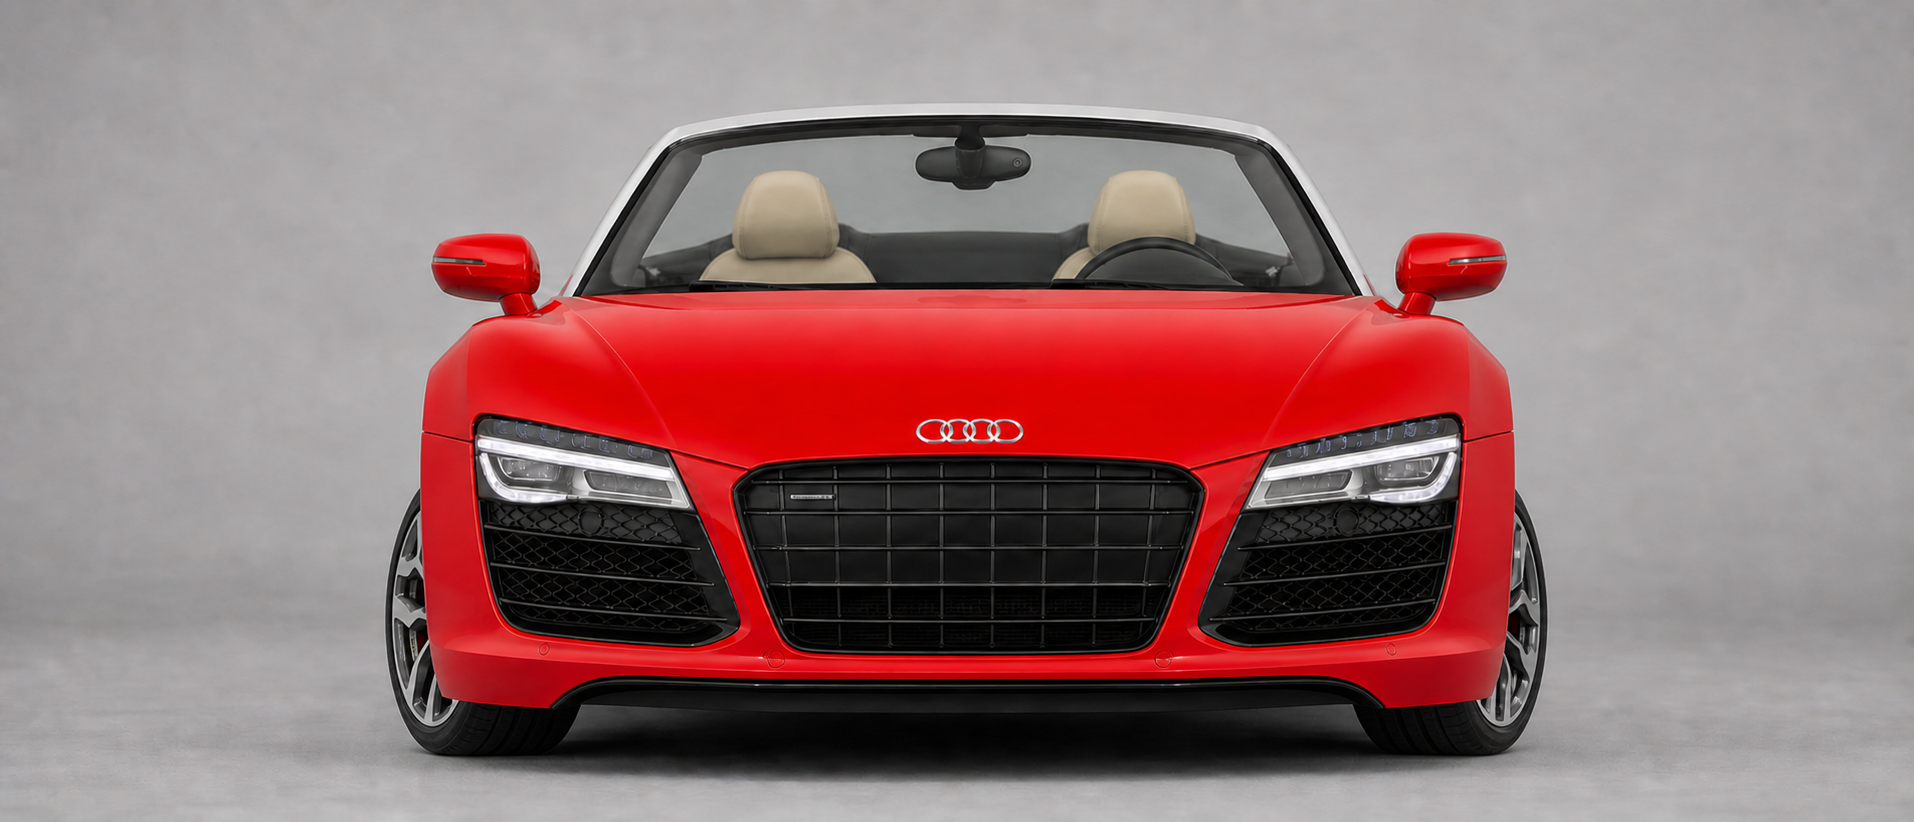
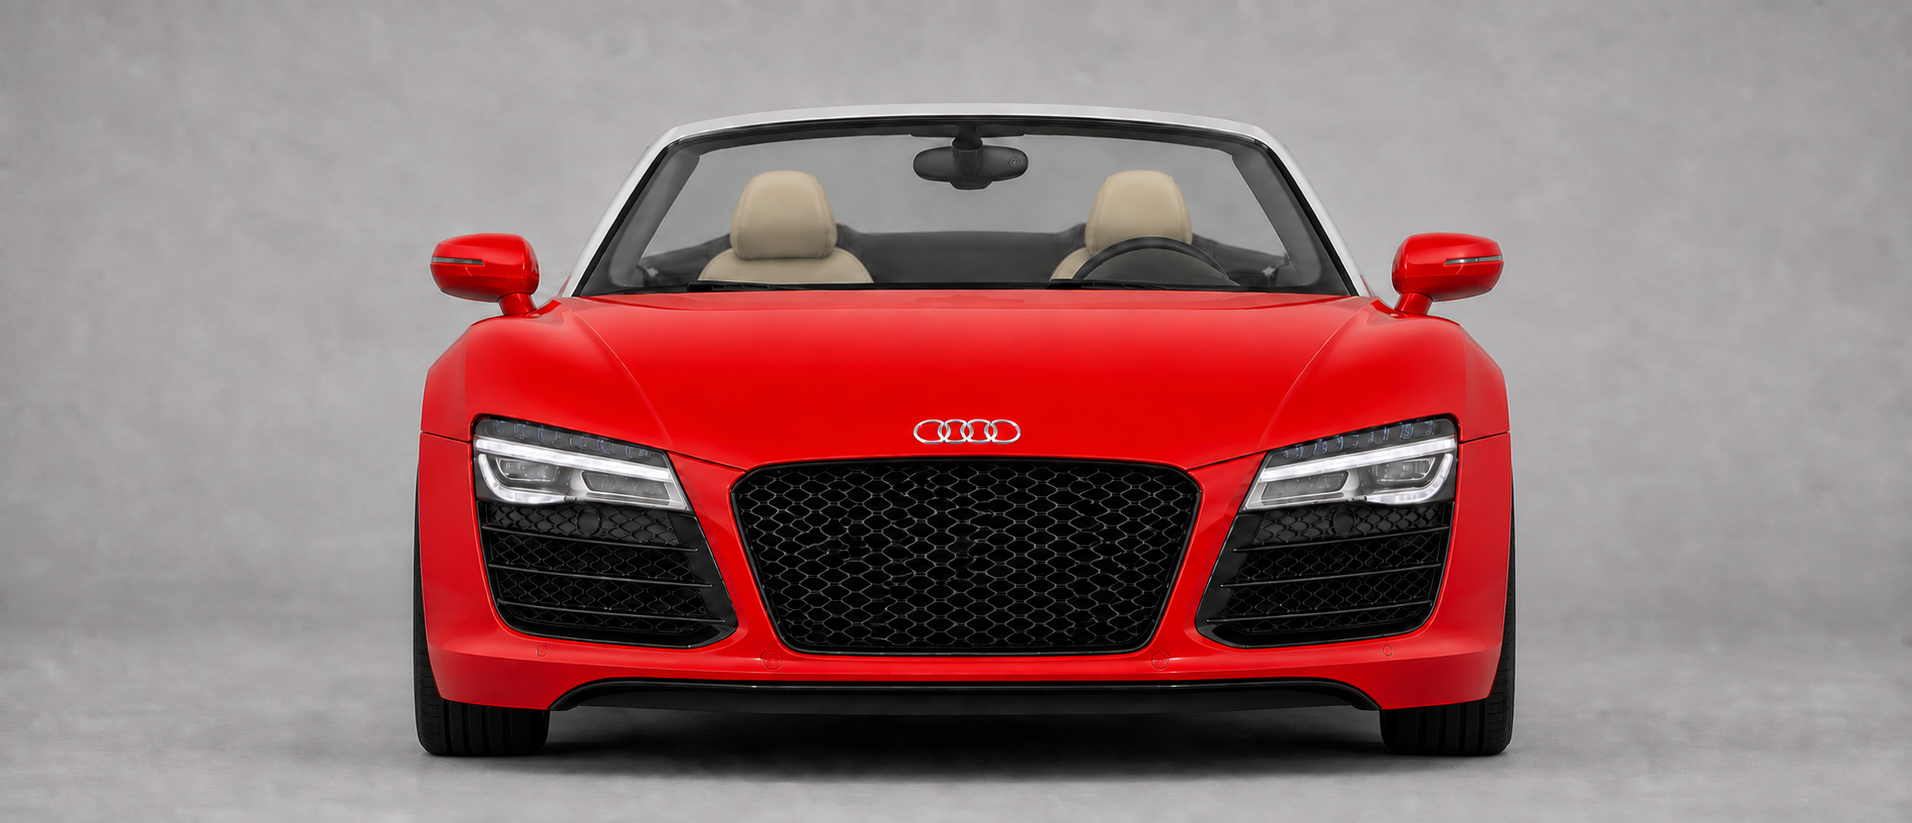
Correct R8 wheel projection and owner-specific trim

diff --git a/public/r8-reference-v2/index.html b/public/r8-reference-v2/index.html
@@ -27,25 +27,25 @@
   <header>
     <span class="tag">REFERENCE SET v2</span>
     <h1>Audi R8 Spyder Type 42 facelift</h1>
-    <p>3Dベースメッシュ再構築用の角度別資料。2013–2015年型・純正仕様・オープン状態を固定。</p>
+    <p>3Dベースメッシュ再構築用の角度別資料。2013–2015年型・実車固有パーツ・オープン状態を固定。</p>
   </header>
   <main>
-    <div class="note"><strong>ホイール基準を更新済み。</strong> 太い5組の分岐Yスポーク、ガンメタの凹部、切削シルバー面、Audiセンターキャップ、黒いR8キャリパーを全方向に反映しています。</div>
+    <div class="note"><strong>実車基準 v3。</strong> 単体ホイールを全方向の形状基準に固定。正面・後面ではホイール表面を見せず、実車固有の社外ハニカムグリルと黒いリア中央パネルを反映しています。</div>
     <section class="grid">
-      <figure class="hero"><img src="images/00-front.png" alt="正面"><figcaption><strong>00 正面</strong><span>水平・長焦点</span></figcaption></figure>
-      <figure><img src="images/01-front-fuel-side.png" alt="前方・給油口側"><figcaption><strong>01 前方斜め</strong><span>給油口側</span></figcaption></figure>
-      <figure><img src="images/02-fuel-side-profile.png" alt="給油口側面"><figcaption><strong>02 側面</strong><span>給油口側</span></figcaption></figure>
-      <figure><img src="images/03-rear-fuel-side.png" alt="後方・給油口側"><figcaption><strong>03 後方斜め</strong><span>給油口側</span></figcaption></figure>
-      <figure><img src="images/04-rear.png" alt="後面"><figcaption><strong>04 後面</strong><span>水平・長焦点</span></figcaption></figure>
-      <figure><img src="images/05-rear-nonfuel-side.png" alt="後方・非給油口側"><figcaption><strong>05 後方斜め</strong><span>非給油口側</span></figcaption></figure>
-      <figure><img src="images/06-nonfuel-side-profile.png" alt="非給油口側面"><figcaption><strong>06 側面</strong><span>非給油口側</span></figcaption></figure>
-      <figure><img src="images/07-front-nonfuel-side.png" alt="前方・非給油口側"><figcaption><strong>07 前方斜め</strong><span>非給油口側</span></figcaption></figure>
-      <figure><img src="images/08-top.png" alt="真上"><figcaption><strong>08 真上</strong><span>90°正投影</span></figcaption></figure>
-      <figure><img src="images/09-underside.png" alt="下面"><figcaption><strong>09 下面</strong><span>実車下面資料ベース</span></figcaption></figure>
-      <figure><img src="images/10-low-front.png" alt="前方ローアングル"><figcaption><strong>10 前方ロー</strong><span>下端形状確認</span></figcaption></figure>
-      <figure><img src="images/11-low-rear.png" alt="後方ローアングル"><figcaption><strong>11 後方ロー</strong><span>ディフューザー確認</span></figcaption></figure>
-      <figure><img src="images/12-wheel-front.png" alt="ホイール正面"><figcaption><strong>12 ホイール正面</strong><span>独立パーツ用</span></figcaption></figure>
-      <figure><img src="images/13-wheel-three-quarter.png" alt="ホイール斜め"><figcaption><strong>13 ホイール斜め</strong><span>深さ・面構成確認</span></figcaption></figure>
+      <figure class="hero"><img src="images/00-front.png?v=3" alt="正面"><figcaption><strong>00 正面</strong><span>水平・長焦点</span></figcaption></figure>
+      <figure><img src="images/01-front-fuel-side.png?v=3" alt="前方・給油口側"><figcaption><strong>01 前方斜め</strong><span>給油口側</span></figcaption></figure>
+      <figure><img src="images/02-fuel-side-profile.png?v=3" alt="給油口側面"><figcaption><strong>02 側面</strong><span>給油口側</span></figcaption></figure>
+      <figure><img src="images/03-rear-fuel-side.png?v=3" alt="後方・給油口側"><figcaption><strong>03 後方斜め</strong><span>給油口側</span></figcaption></figure>
+      <figure><img src="images/04-rear.png?v=3" alt="後面"><figcaption><strong>04 後面</strong><span>水平・長焦点</span></figcaption></figure>
+      <figure><img src="images/05-rear-nonfuel-side.png?v=3" alt="後方・非給油口側"><figcaption><strong>05 後方斜め</strong><span>非給油口側</span></figcaption></figure>
+      <figure><img src="images/06-nonfuel-side-profile.png?v=3" alt="非給油口側面"><figcaption><strong>06 側面</strong><span>非給油口側</span></figcaption></figure>
+      <figure><img src="images/07-front-nonfuel-side.png?v=3" alt="前方・非給油口側"><figcaption><strong>07 前方斜め</strong><span>非給油口側</span></figcaption></figure>
+      <figure><img src="images/08-top.png?v=3" alt="真上"><figcaption><strong>08 真上</strong><span>90°正投影</span></figcaption></figure>
+      <figure><img src="images/09-underside.png?v=3" alt="下面"><figcaption><strong>09 下面</strong><span>実車下面資料ベース</span></figcaption></figure>
+      <figure><img src="images/10-low-front.png?v=3" alt="前方ローアングル"><figcaption><strong>10 前方ロー</strong><span>下端形状確認</span></figcaption></figure>
+      <figure><img src="images/11-low-rear.png?v=3" alt="後方ローアングル"><figcaption><strong>11 後方ロー</strong><span>ディフューザー確認</span></figcaption></figure>
+      <figure><img src="images/12-wheel-front.png?v=3" alt="ホイール正面"><figcaption><strong>12 ホイール正面</strong><span>独立パーツ用・形状基準</span></figcaption></figure>
+      <figure><img src="images/13-wheel-three-quarter.png?v=3" alt="ホイール斜め"><figcaption><strong>13 ホイール斜め</strong><span>深さ・面構成基準</span></figcaption></figure>
     </section>
   </main>
 </body>

diff --git a/public/r8-reference-v2/README.md b/public/r8-reference-v2/README.md
@@ -3,10 +3,13 @@
 Target lock:
 
 - 2013–2015 Audi R8 V10 Spyder, Type 42 facelift
-- Stock exterior; no body kit, fixed wing, lowered suspension, or Type 4S parts
+- Stock Type 42 facelift body geometry with the owner's aftermarket honeycomb center grille
+- Owner-specific glossy-black rear center panel below the Audi/R8 emblems
+- No fixed wing, lowered suspension, widebody conversion, or Type 4S parts
 - Open roof, bright red body, Luxor Beige interior, silver windshield surround
 - User-supplied OEM wheel is the highest-priority wheel reference
 - Fuel cap appears on one side only
+- Dead-front and dead-rear plates expose tire edges only; wheel faces are not visible
 
 Reference hierarchy:
 
